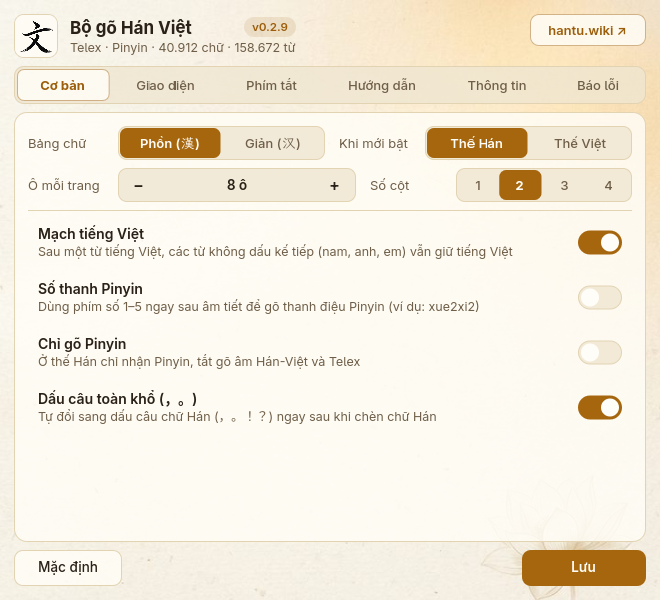
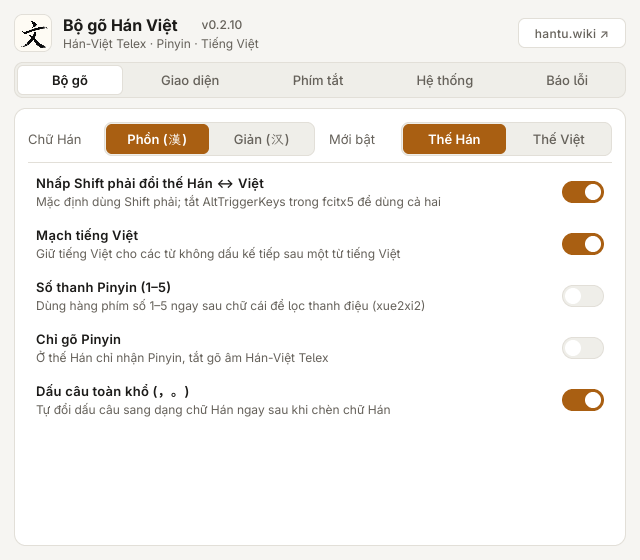
Bộ gõ Hán Việt v0.2.10

diff --git a/README.md b/README.md
@@ -25,10 +25,10 @@ Bộ gõ chữ Hán đa nền tảng (**Android** · **Windows** · **Linux `fci
 ![Bảng chọn chữ nhiều cột và thẻ từ điển tra nhanh](images/candidate-dict.png)
 *Bảng chọn chữ 2 cột (tùy chỉnh 1–4 cột) cùng thẻ từ điển chi tiết khi rê chuột dừng 0,3 giây trên máy tính hoặc bấm giữ trên điện thoại: hiện bộ thủ, số nét, lục thư, nghĩa, nguồn gốc chữ và từ ghép liên quan.*
 
-| Cửa sổ cài đặt chung (Windows & Linux) | 3 chủ đề đồng bộ Sáng / Tối |
+| Cửa sổ cài đặt chung (Windows & Linux) | Bố cục lưới & 3 tông nhấn Sáng / Tối |
 |---|---|
-| ![Cửa sổ cài đặt cơ bản](images/settings-basic.png) | ![3 chủ đề Phật Quang, Dấu Son, Thiền Ngọc](images/settings-themes.png) |
-| *Chỉnh nhanh Phồn/Giản, Thế mặc định, số ô gợi ý, số cột và quy tắc gõ.* | *3 chủ đề **Phật Quang**, **Dấu Son**, **Thiền Ngọc** tự phóng chữ khi kéo giãn cửa sổ.* |
+| ![Cửa sổ cài đặt cơ bản](images/settings-basic.png) | ![Bố cục lưới và 3 tông màu nhấn](images/settings-themes.png) |
+| *Tự động lưu tức thì khi chỉnh Phồn/Giản, Thế mặc định và quy tắc gõ.* | *Chỉnh số ô, số cột, Sáng / Tối và 3 tông nhấn **Vàng ấm**, **Đỏ trầm**, **Xanh đá**.* |
 
 ---
 
@@ -72,9 +72,9 @@ Bộ gõ chữ Hán đa nền tảng (**Android** · **Windows** · **Linux `fci
 
 ### 2. Windows (Windows 10 / 11 — 64-bit)
 
-1. Tải bộ cài [**`HanTuIME-win-Setup.exe`**](../../releases/latest/download/HanTuIME-win-Setup.exe) (hoặc xem tại mục [Releases](../../releases/latest)) — *cài theo tài khoản người dùng, không cần quyền quản trị, hỗ trợ tự kiểm tra cập nhật*.
+1. Tải bộ cài [**`HanTuIME-win-Setup.exe`**](../../releases/latest/download/HanTuIME-win-Setup.exe) (hoặc xem tại mục [Releases](../../releases/latest)) — *cài theo tài khoản người dùng, không cần quyền quản trị, tự tạo lối tắt ngoài Desktop và hỗ trợ tự kiểm tra cập nhật*.
 2. Mở tệp vừa tải. Nếu Windows SmartScreen cảnh báo tệp chưa ký số thương mại, bấm **Thông tin thêm (More info)** → **Vẫn chạy (Run anyway)**.
-3. Biểu tượng **漢 / V / E** xuất hiện ở khay hệ thống góc phải dưới: bấm chuột trái để đổi **Hán ↔ Việt**, chuột phải để mở menu hoặc **Cài đặt Bộ gõ Hán Việt**.
+3. Biểu tượng **漢 / V / E** xuất hiện ở khay hệ thống góc phải dưới: bấm chuột trái để đổi **Hán ↔ Việt** (ở Thế Việt gõ thẳng tại con trỏ như UniKey), chuột phải để mở menu hoặc **Cài đặt Bộ gõ Hán Việt**.
 
 ### 3. Linux (`fcitx5` · 64-bit `x86_64`)
 

diff --git a/NOTICE.md b/NOTICE.md
@@ -50,7 +50,7 @@ Bản quyền: wordfreq © 2022 Robyn Speer; THUOCL © 2018 THUNLP; phrase-pinyi
 Lõi bộ gõ viết bằng Rust, dùng các thư viện mã nguồn mở theo giấy phép MIT, Apache-2.0, Zlib và Unicode-3.0:
 bytes, cesu8, cfg-if, combine, equivalent, foldhash, hashbrown, indexmap, itoa, jni, jni-sys, log, memchr, serde,
 serde_json, thiserror, tinyvec, unicode-ident, unicode-normalization, zmij (cùng các thư viện dựng mã proc-macro2,
-quote, syn). Danh sách kiểm kê đến bản 0.2.9.
+quote, syn). Danh sách kiểm kê đến bản 0.2.10.
 
 ### Bản Linux (`HanTuIME-linux-x86_64.run`)
 
@@ -60,6 +60,6 @@ quote, syn). Danh sách kiểm kê đến bản 0.2.9.
 
 ### Bản Windows
 
-- **Giao diện cài đặt:** dùng [Slint](https://slint.dev) 1.19 theo giấy phép [Slint Royalty-free Desktop, Mobile, and Web Applications License 2.0](https://slint.dev/royalty-free-license) (`LicenseRef-Slint-Royalty-free-2.0`, có kèm mục `AboutSlint` trong tab Thông tin).
+- **Giao diện cài đặt:** dùng [Slint](https://slint.dev) 1.19 theo giấy phép [Slint Royalty-free Desktop, Mobile, and Web Applications License 2.0](https://slint.dev/royalty-free-license) (`LicenseRef-Slint-Royalty-free-2.0`, có kèm mục `AboutSlint` trong mục Hệ thống).
 - **Bộ cài và tự cập nhật:** dùng [Velopack](https://velopack.io) 1.2.161 theo giấy phép [MIT](https://opensource.org/license/mit).
 - **Thư viện hệ thống và phụ trợ Rust:** dùng `windows` / `windows-*` (MIT OR Apache-2.0) cùng các thư viện đồ họa, văn bản, mạng và nén phụ trợ của Slint và Velopack theo các giấy phép mã nguồn mở: MIT, Apache-2.0, BSD-2-Clause, BSD-3-Clause, ISC, Zlib, Unicode-3.0, Unlicense, 0BSD, BSL-1.0, CC0-1.0 và CDLA-Permissive-2.0.

diff --git a/CHANGELOG.md b/CHANGELOG.md
@@ -1,5 +1,13 @@
 # Lịch sử thay đổi
 
+## 0.2.10
+
+- Làm mới toàn bộ giao diện trên máy tính theo phong cách phẳng, sáng rõ, dễ đọc ở cả chế độ Sáng và Tối với 3 tông màu nhấn Vàng ấm, Đỏ trầm, Xanh đá; mọi tùy chỉnh tự động lưu và áp dụng ngay.
+- Ở Thế Việt trên Windows, chữ tiếng Việt được gõ trực tiếp tại con trỏ như bộ gõ thông thường (không hiện bảng nổi, không nhảy chữ trên thanh địa chỉ trình duyệt hay bảng tính Excel).
+- Phím Enter và Shift + Enter ở Thế Việt trên cả điện thoại lẫn máy tính giữ nguyên chữ tiếng Việt có dấu rồi gửi tin nhắn hoặc xuống dòng ngay từ lần bấm đầu tiên.
+- Bảng chọn chữ Hán và thẻ từ điển tự động né sang bên cạnh khi gõ trong thanh Tìm kiếm hoặc Start Menu của Windows 11, ẩn gọn khi gõ từ tiếng Anh chưa khớp chữ Hán.
+- Bộ cài máy tính tự tạo lối tắt ngoài màn hình Desktop (tự dọn sạch khi gỡ ứng dụng); bổ sung tùy chọn chạy với quyền Quản trị trên Windows khi cần gõ trong ứng dụng hệ thống và giữ ổn định bộ gõ khi cập nhật trên Linux.
+
 ## 0.2.9
 
 - Chuẩn hóa chính tả i / y trong âm Hán-Việt (tỉ ~ tỷ, kì ~ kỳ, yên ~ iên) và nhận đủ thanh điệu Pinyin trên chữ m / n (ń, ň, ǹ, ḿ), đạt mức 0 chữ bỏ sót trong toàn bộ 40.912 chữ đơn.
